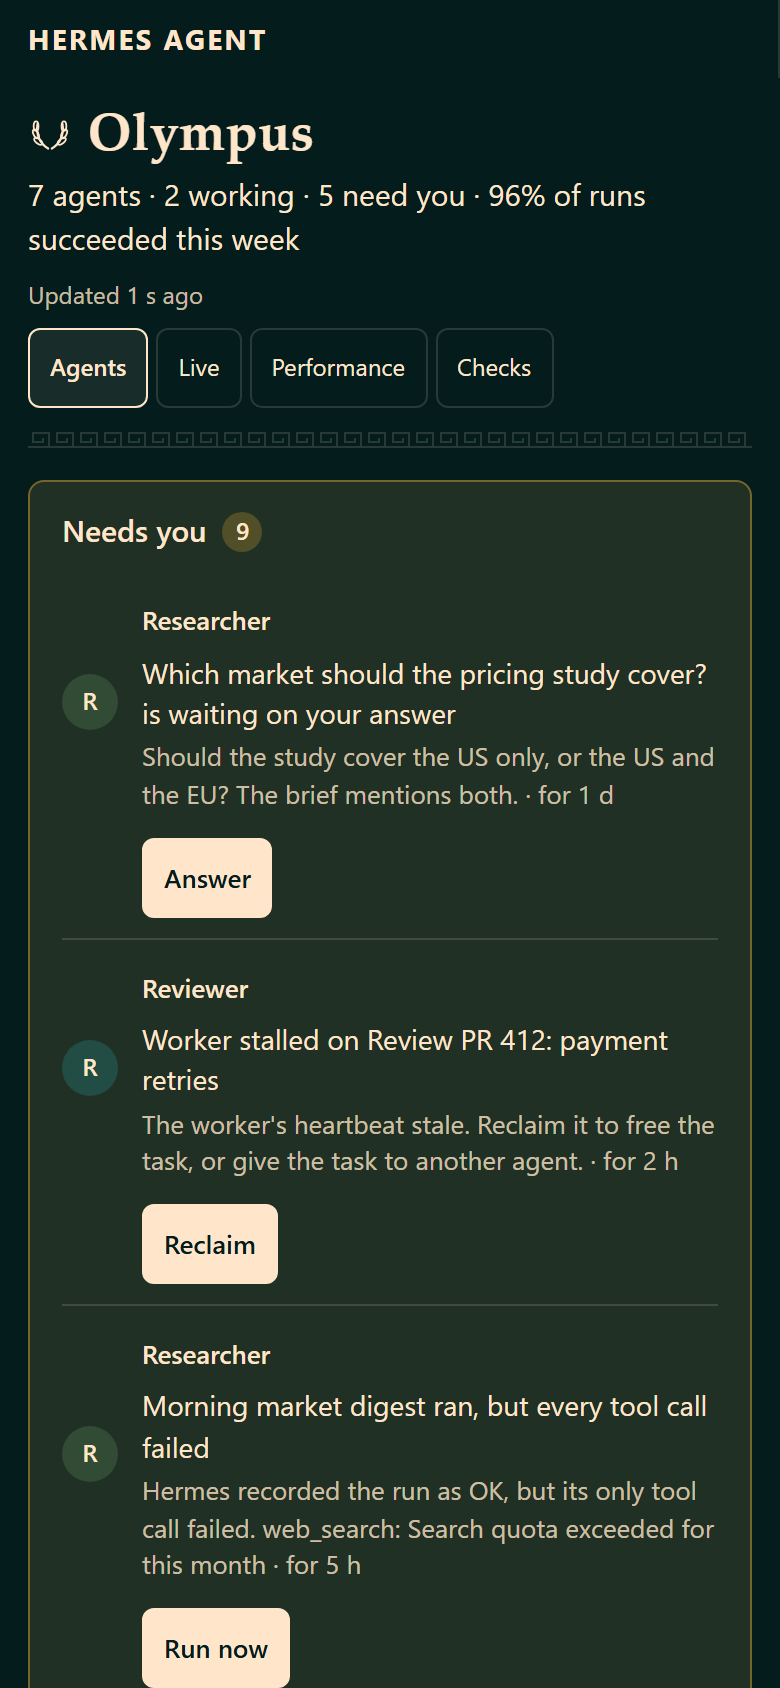
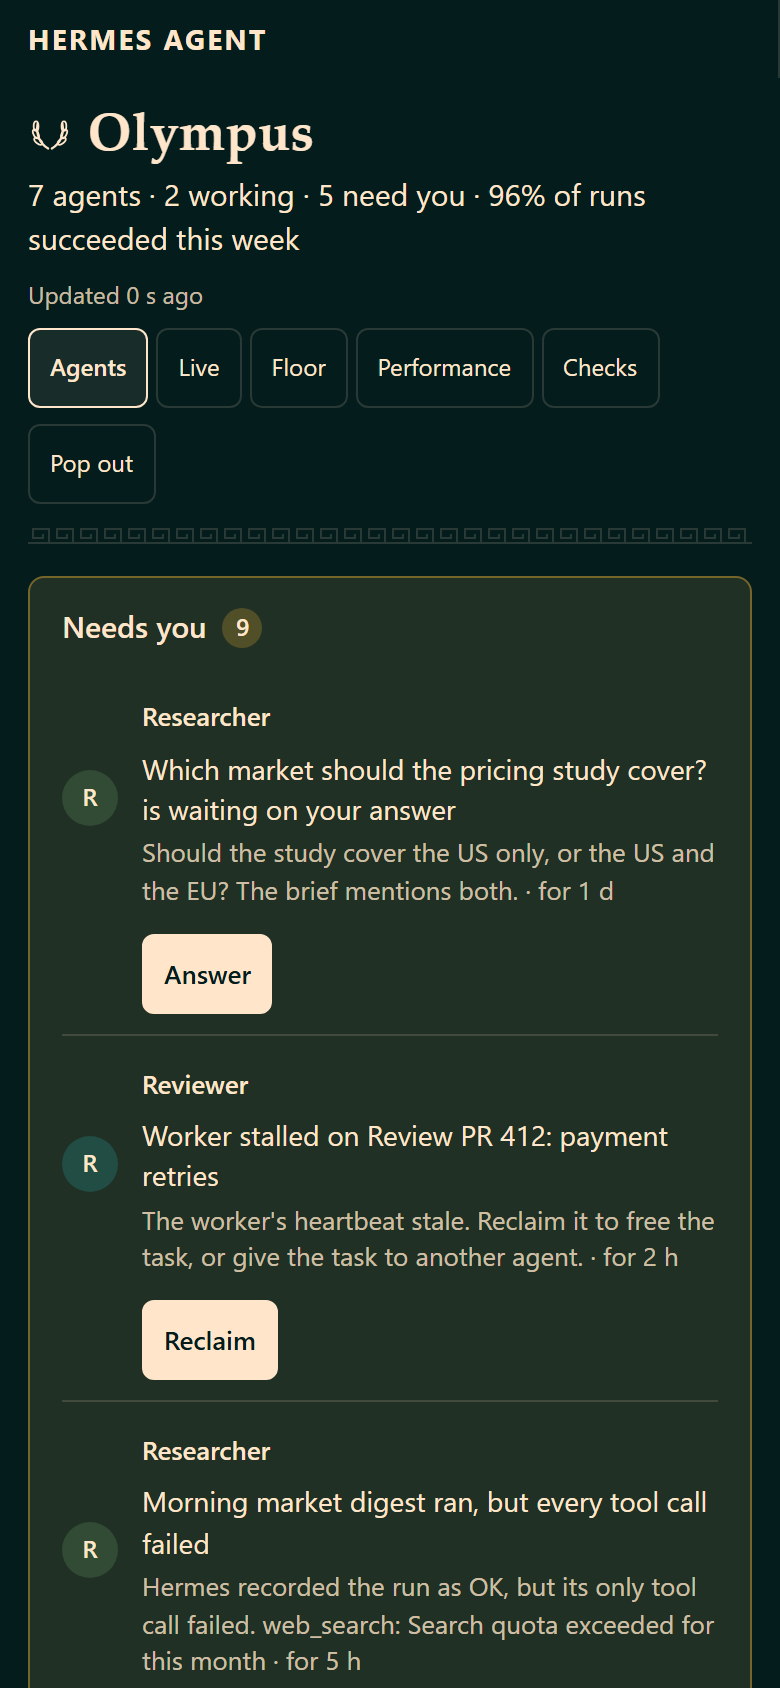
chore: release 2.1.0 — Live, Pop out, Floor and the Performance chart fixes
Version 2.1.0 in plugin.yaml, the dashboard manifest and package.json; the
Unreleased changelog becomes [2.1.0] - 2026-11-01 with its compare link, and
the "bet" sentence that had drifted under the Performance entry is back on
Pop out, where it belongs.

README screenshots regenerated where the header had gone stale: agents,
agents at 390 px, the inspector and Live were taken before the Floor tab
and the Pop out button existed, and the popout shot predates its List /
Floor switch. All five from the fixture at the same sizes as before, no
overflow, no console errors. Known issues gains the one gap left open by
the Floor review: a subagent still running after its parent run ended
shows as a run of its own.

Claude-Session: https://claude.ai/code/session_017doESmRdm5Mbwm41YXbttS

diff --git a/CHANGELOG.md b/CHANGELOG.md
@@ -6,6 +6,8 @@ follows [Semantic Versioning](https://semver.org/spec/v2.0.0.html).
 
 ## [Unreleased]
 
+## [2.1.0] - 2026-11-01
+
 ### Added
 
 - A Live view: every open run as it happens, polled every five seconds. One
@@ -27,6 +29,9 @@ follows [Semantic Versioning](https://semver.org/spec/v2.0.0.html).
   need you first; a click opens the agent in the tab. Chrome and Edge use
   Document Picture-in-Picture; other browsers get a popup of the same list
   (`?view=glance`). Reads the roster's own ten-second poll, no new endpoint.
+  A bet: no Hermes user has asked for it (#58725 has no reactions); it
+  follows what people have adopted for other agent tools, an always-visible
+  view of every agent keyed to real activity.
 - Floor: a fourth view with every agent at a fixed place in one frame, in
   name order. A station is the agent's disc with a ring only when it needs
   you, its status word, what it is on, the last minute's call count, and its
@@ -48,9 +53,6 @@ follows [Semantic Versioning](https://semver.org/spec/v2.0.0.html).
   how the window compares with the one before it ("96% succeeded, was 99% the
   7 days before", "7% faster than before"), as the per-agent rows already
   did. The Agents inspector's tokens chart is the same chart.
-  A bet: no Hermes user has asked for it (#58725 has no reactions); it
-  follows what people have adopted for other agent tools, an always-visible
-  view of every agent keyed to real activity.
 
 ## [2.0.1] - 2026-10-27
 
@@ -355,6 +357,7 @@ credentials, or config.
 - `verify` workflow runs backend compile, backend unit tests, frontend parse,
   whitespace check, and the visual smoke on push and pull request.
 
+[2.1.0]: https://github.com/AIEngineerX/Olympus/compare/v2.0.1...v2.1.0
 [2.0.1]: https://github.com/AIEngineerX/Olympus/compare/v2.0.0...v2.0.1
 [2.0.0]: https://github.com/AIEngineerX/Olympus/compare/v1.0.3...v2.0.0
 [1.0.3]: https://github.com/AIEngineerX/Olympus/compare/v1.0.2...v1.0.3

diff --git a/README.md b/README.md
@@ -212,6 +212,8 @@ Seen on the test install; not yet fixed.
   ends. The next release will end the agent's status with the run.
 - While a worker runs, "Now" shows its task but not the tool it is using.
 - At 390 px the confirm popup for a control can overflow its row by a pixel.
+- In Live and Floor, a subagent still running after its parent run has ended
+  (a background delegation) shows as a run of its own, not under its parent.
 
 If you hit anything else, [open an issue](https://github.com/AIEngineerX/Olympus/issues)
 and say what Olympus showed and what Hermes' own page showed.
